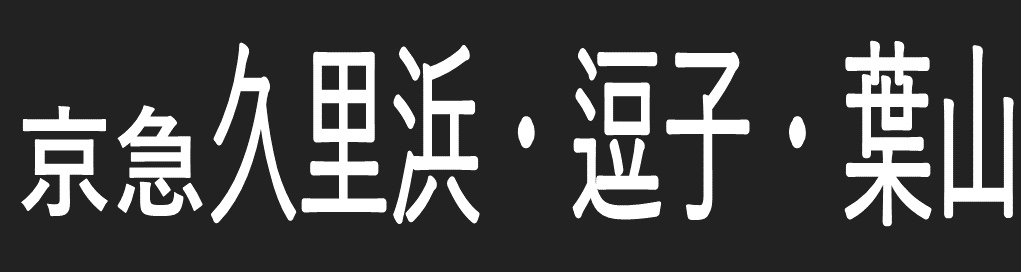
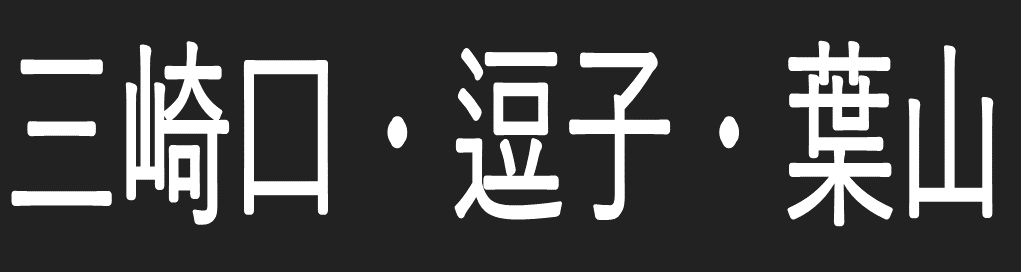
fix: train demo

Changed region(s): [[0.0, 0.1471, 1.0, 0.8235]]

diff --git a/demo/src/components/TrainDemo.tsx b/demo/src/components/TrainDemo.tsx
@@ -1,11 +1,6 @@
 import { useState, useEffect } from 'react'
 import { LongFlap } from 'react-split-flap'
 
-interface Destination {
-  japanese: string
-  english: string
-}
-
 const SEQ: {
   word: string
   style: React.CSSProperties
@@ -21,19 +16,6 @@ const SEQ: {
 
 // Replace the KEIKYU_TRAIN_TYPES array with image-based train types
 const KEIKYU_TRAIN_TYPES = ['air_exp', 'air_ltd', 'air_rapid_ltd', 'com_ltd', 'exp', 'local', 'ltd', 'out', 'rapid_ltd']
-
-const KEIKYU_DESTINATIONS: Destination[] = [
-  { japanese: '羽田空港', english: 'Haneda Airport' },
-  { japanese: '品川', english: 'Shinagawa' },
-  { japanese: '横浜', english: 'Yokohama' },
-  { japanese: '新宿', english: 'Shinjuku' },
-  { japanese: '浅草', english: 'Asakusa' },
-  { japanese: '西馬込', english: 'Nishi-Magome' },
-  { japanese: '三崎口', english: 'Misakiguchi' },
-  { japanese: '金沢文庫', english: 'Kanazawa-Bunko' },
-  { japanese: '上大岡', english: 'Kamiooka' },
-  { japanese: '日本橋', english: 'Nihombashi' },
-]
 
 const SEQ_FLAPS = Array(50)
   .fill(null)
@@ -93,11 +75,54 @@ const BIKOU_FLAPS = Array.from({ length: 60 }, (_, index) => ({
 
 const DESTINATION_FLAPS = Array.from({ length: 60 }, (_, index) => ({
   id: index.toString(),
+  component:
+    index < 45 ? (
+      <img
+        src={`./images/kawasaki/dest/${index}.PNG`}
+        alt={`Destination ${index}`}
+        style={{ width: '200px', height: '50px' }}
+        onError={(e) => {
+          e.currentTarget.style.display = 'none'
+        }}
+      />
+    ) : (
+      <div />
+    ),
+}))
+
+// Generate hour flaps (0-24)
+const HOUR_FLAPS = Array.from({ length: 25 }, (_, index) => ({
+  id: index.toString(),
   component: (
     <img
-      src={`./images/kawasaki/dest/${index}.PNG`}
-      alt={`Destination ${index}`}
-      style={{ width: '200px', height: '50px' }}
+      src={`./images/kawasaki/hour/${index}.PNG`}
+      alt={`Hour ${index}`}
+      style={{
+        width: '100%',
+        height: '100%',
+        objectFit: 'contain',
+        display: 'block',
+      }}
+      onError={(e) => {
+        e.currentTarget.style.display = 'none'
+      }}
+    />
+  ),
+}))
+
+// Generate minute flaps (0-9 for both tens and units)
+const MINUTE_FLAPS = Array.from({ length: 10 }, (_, index) => ({
+  id: index.toString(),
+  component: (
+    <img
+      src={`./images/kawasaki/minute/${index}.PNG`}
+      alt={`Minute ${index}`}
+      style={{
+        width: '100%',
+        height: '100%',
+        objectFit: 'contain',
+        display: 'block',
+      }}
       onError={(e) => {
         e.currentTarget.style.display = 'none'
       }}
@@ -110,13 +135,19 @@ const TrainDemo = () => {
   const [currentDestination, setCurrentDestination] = useState(0)
   const [currentSeq, setCurrentSeq] = useState(0)
   const [currentBikou, setCurrentBikou] = useState(0)
+  const [currentHour, setCurrentHour] = useState(0)
+  const [currentMinuteTens, setCurrentMinuteTens] = useState(0)
+  const [currentMinuteUnits, setCurrentMinuteUnits] = useState(0)
 
   useEffect(() => {
     const trainTypeInterval = setInterval(() => {
       setCurrentTrainType(Math.floor(Math.random() * KEIKYU_TRAIN_TYPES.length))
-      setCurrentDestination(Math.floor(Math.random() * KEIKYU_DESTINATIONS.length))
+      setCurrentDestination(Math.floor(Math.random() * 45))
       setCurrentSeq(Math.floor(Math.random() * SEQ.length))
       setCurrentBikou(Math.floor(Math.random() * 60))
+      setCurrentHour(Math.floor(Math.random() * 24))
+      setCurrentMinuteTens(Math.floor(Math.random() * 6)) // 0-5 for tens digit (00-59)
+      setCurrentMinuteUnits(Math.floor(Math.random() * 10)) // 0-9 for units digit
     }, 4000)
 
     return () => {
@@ -130,7 +161,7 @@ const TrainDemo = () => {
       <p>模擬電車站牌翻頁</p>
 
       <div className="demo-display">
-        <div style={{ display: 'flex', gap: '2px', justifyContent: 'center', alignItems: 'center' }}>
+        <div style={{ display: 'flex', gap: '2px', justifyContent: 'center', alignItems: 'center', flexWrap: 'wrap' }}>
           <LongFlap
             key="seq"
             flaps={SEQ_FLAPS}
@@ -138,7 +169,6 @@ const TrainDemo = () => {
             digitWidth={100}
             size="large"
             theme="dark"
-            timing={40}
           />
           <LongFlap
             key="train-type"
@@ -147,7 +177,6 @@ const TrainDemo = () => {
             digitWidth={81}
             size="large"
             theme="dark"
-            timing={40}
           />
           <LongFlap
             key="destination"
@@ -156,7 +185,30 @@ const TrainDemo = () => {
             digitWidth={200}
             size="large"
             theme="dark"
-            timing={45}
+          />
+          <LongFlap
+            key="hour"
+            flaps={HOUR_FLAPS}
+            displayId={currentHour.toString()}
+            digitWidth={80}
+            size="large"
+            theme="dark"
+          />
+          <LongFlap
+            key="minute-tens"
+            flaps={MINUTE_FLAPS}
+            displayId={currentMinuteTens.toString()}
+            digitWidth={42}
+            size="large"
+            theme="dark"
+          />
+          <LongFlap
+            key="minute-units"
+            flaps={MINUTE_FLAPS}
+            displayId={currentMinuteUnits.toString()}
+            digitWidth={42}
+            size="large"
+            theme="dark"
           />
           <LongFlap
             key="bikou"
@@ -165,7 +217,6 @@ const TrainDemo = () => {
             digitWidth={350}
             size="large"
             theme="dark"
-            timing={42}
           />
         </div>
       </div>
